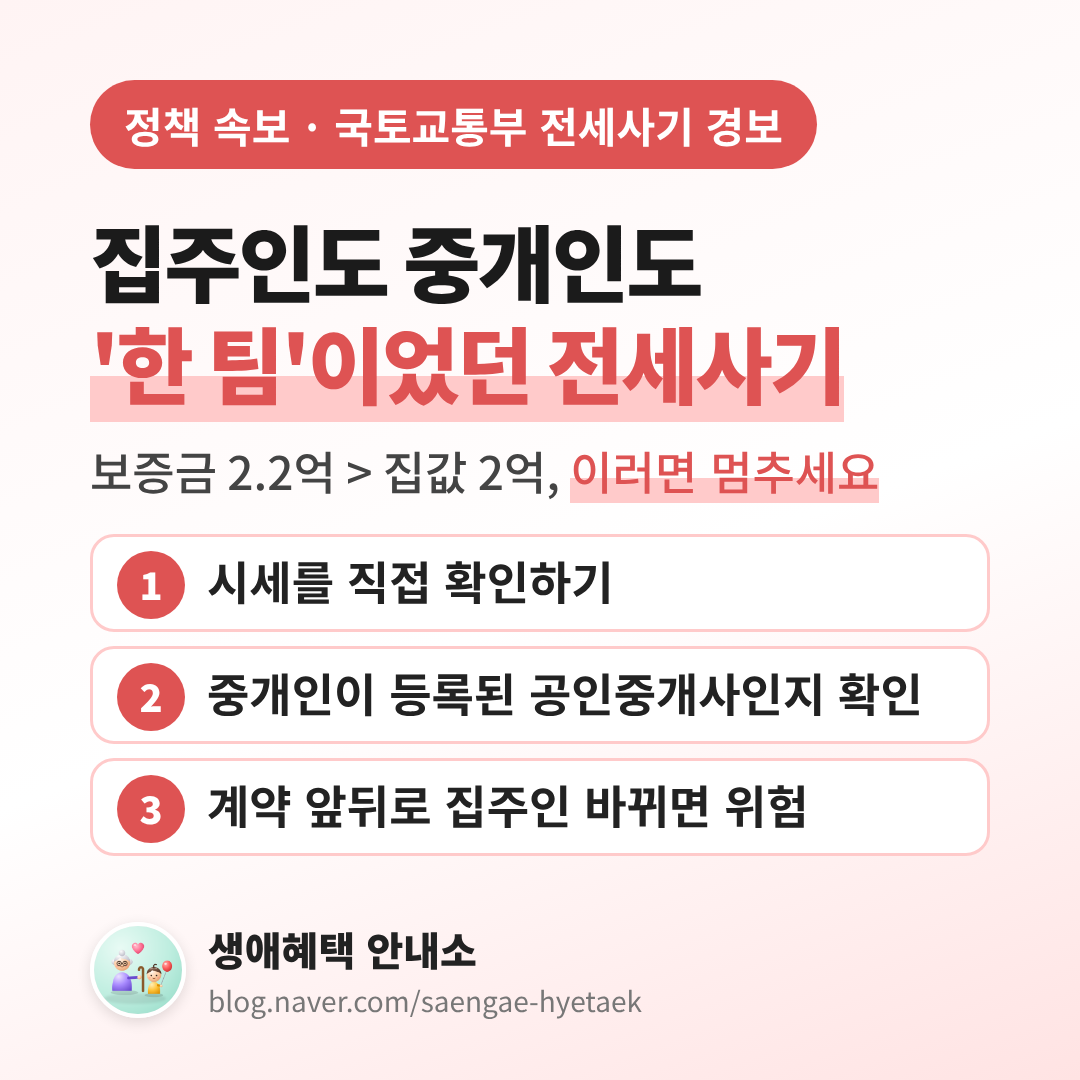
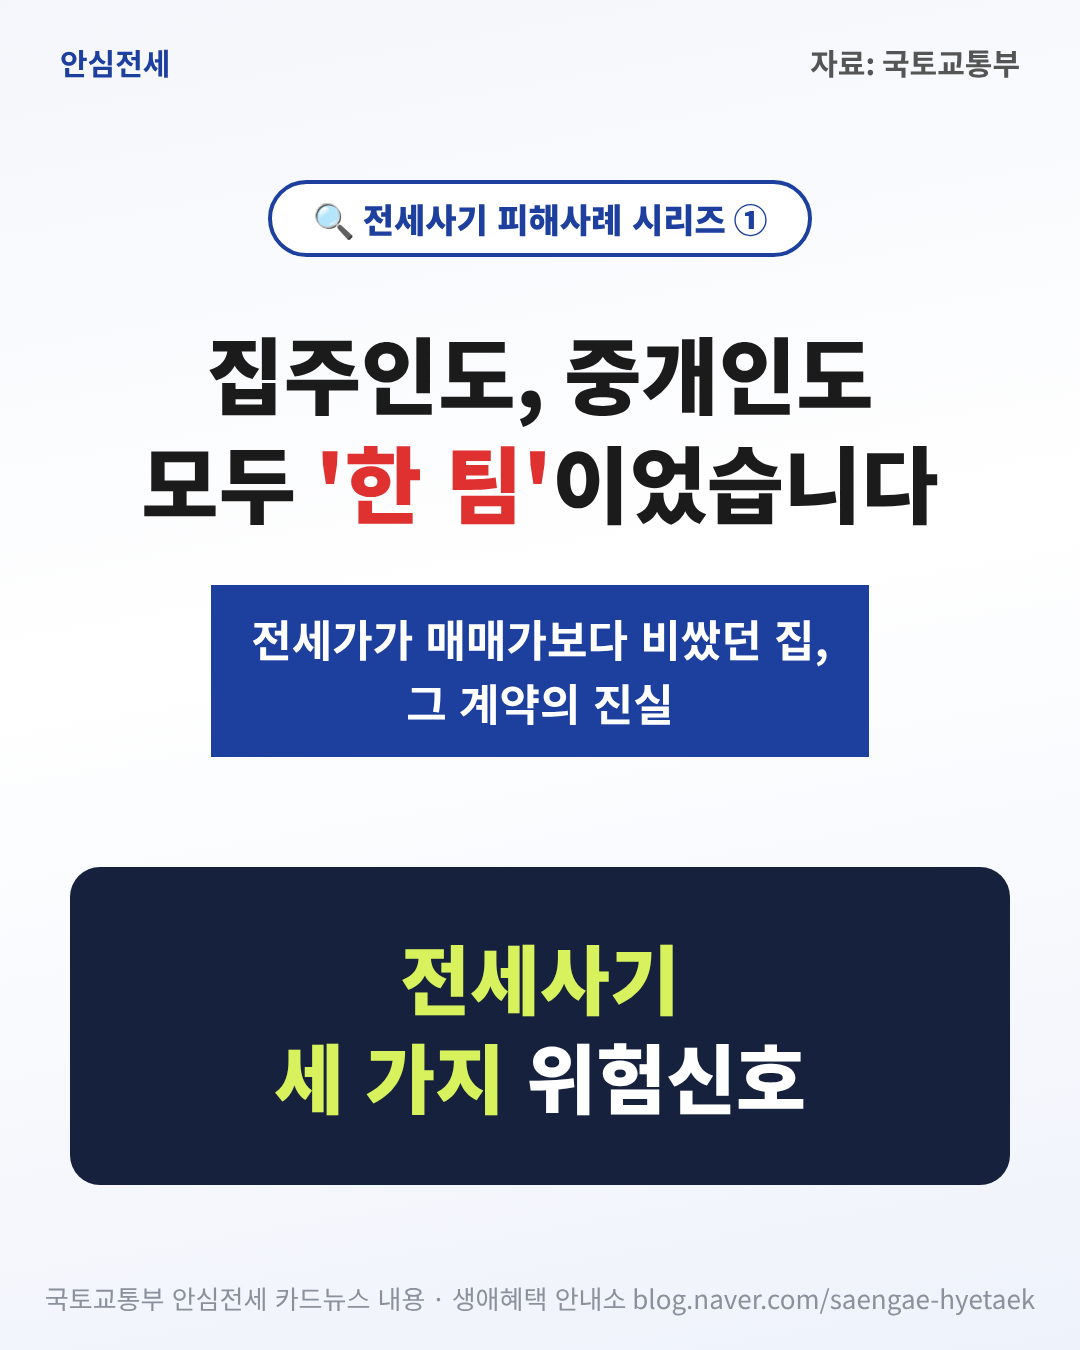
정책 속보 11/25 전세사기: 국토부 카드뉴스 7장 내용 그대로(캐릭터 제외) 사진으로
Claude-Session: https://claude.ai/code/session_01Nk3GpPccrvPauviFJWz5kg

diff --git a/HANDOFF.md b/HANDOFF.md
@@ -4,6 +4,10 @@
 
 
 
+## ⭐ 11/25 16:50 — 정부 카드뉴스는 사진 그대로 다 쓰기(사람 캐릭터만 빼고) (사장님)
+- "글로만 보면 어려울 수 있으니 원문 사진을 웬만하면 다 쓰고, 사람 모양 캐릭터만 빼고 내용은 그대로."
+- 11/25 전세사기 속보: 국토부 카드 7장을 글자 그대로 다시 그림(캐릭터 뺌, '자료: 국토교통부' 표기) → 사진 01~07, 원고 이미지 7장. 도구 tools/blog-card/make-jeonse-1125.cjs.
+
 ## ⭐ 11/25 16:20 — 정책 속보: 생활비·사기 소식은 꼭 쓴다 + 보고는 한글로만 (사장님)
 - 11/25 점검에서 유류세 인하 연장(11/24 국무회의)·국토부 전세사기 카드를 '지난 소식'이라며 뺐는데 사장님 "이런 건 해야지, 아주 중요한 건데".
 - 기름값·세금·공공요금·보험료 등 생활비 확정 소식, 전세사기·보이스피싱 등 사기 경보는 반드시 속보로. 지난 점검에서 빠졌어도 속보 기록에 없으면 씀.
